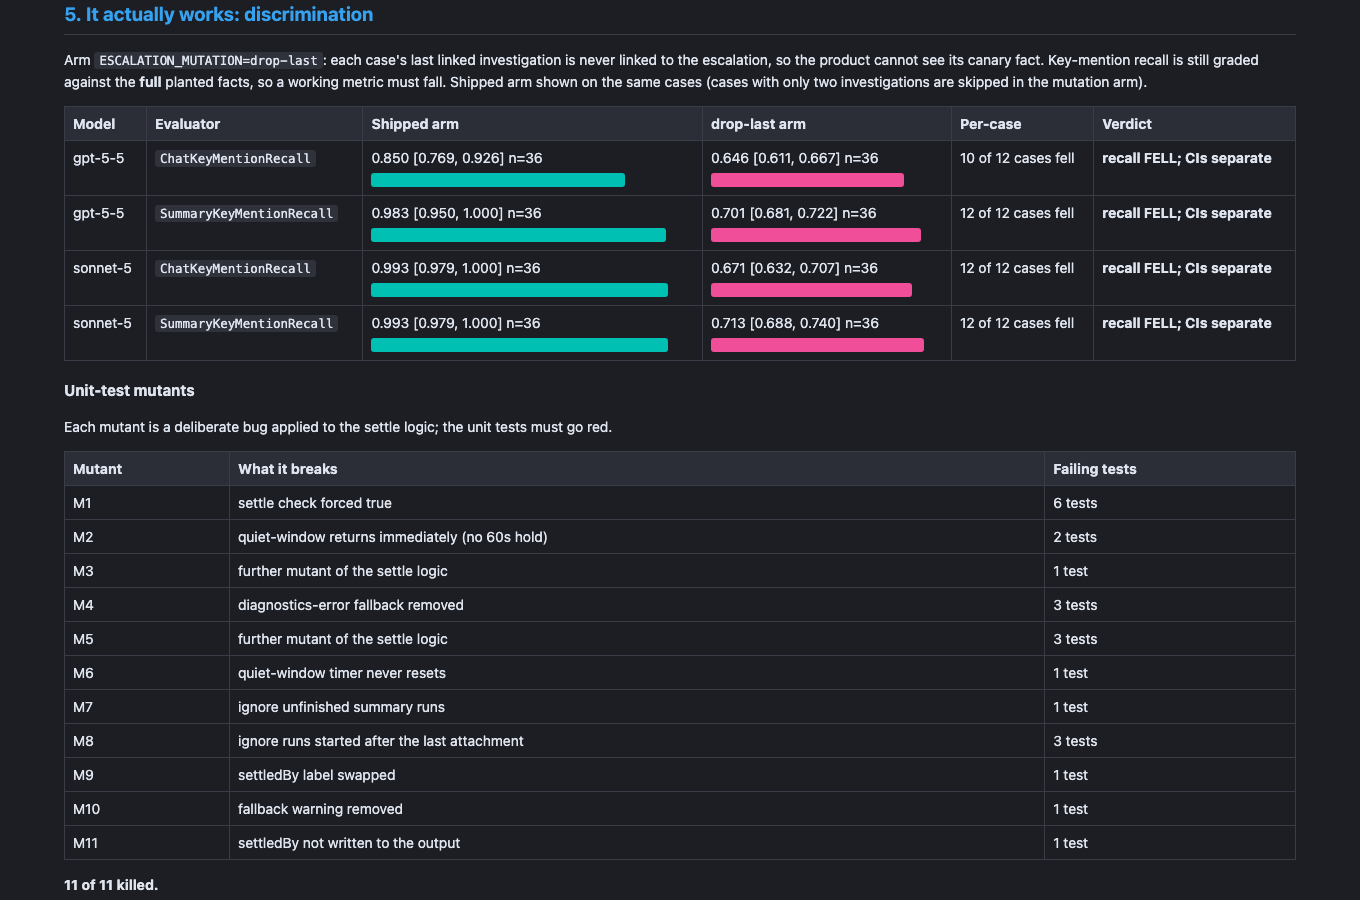
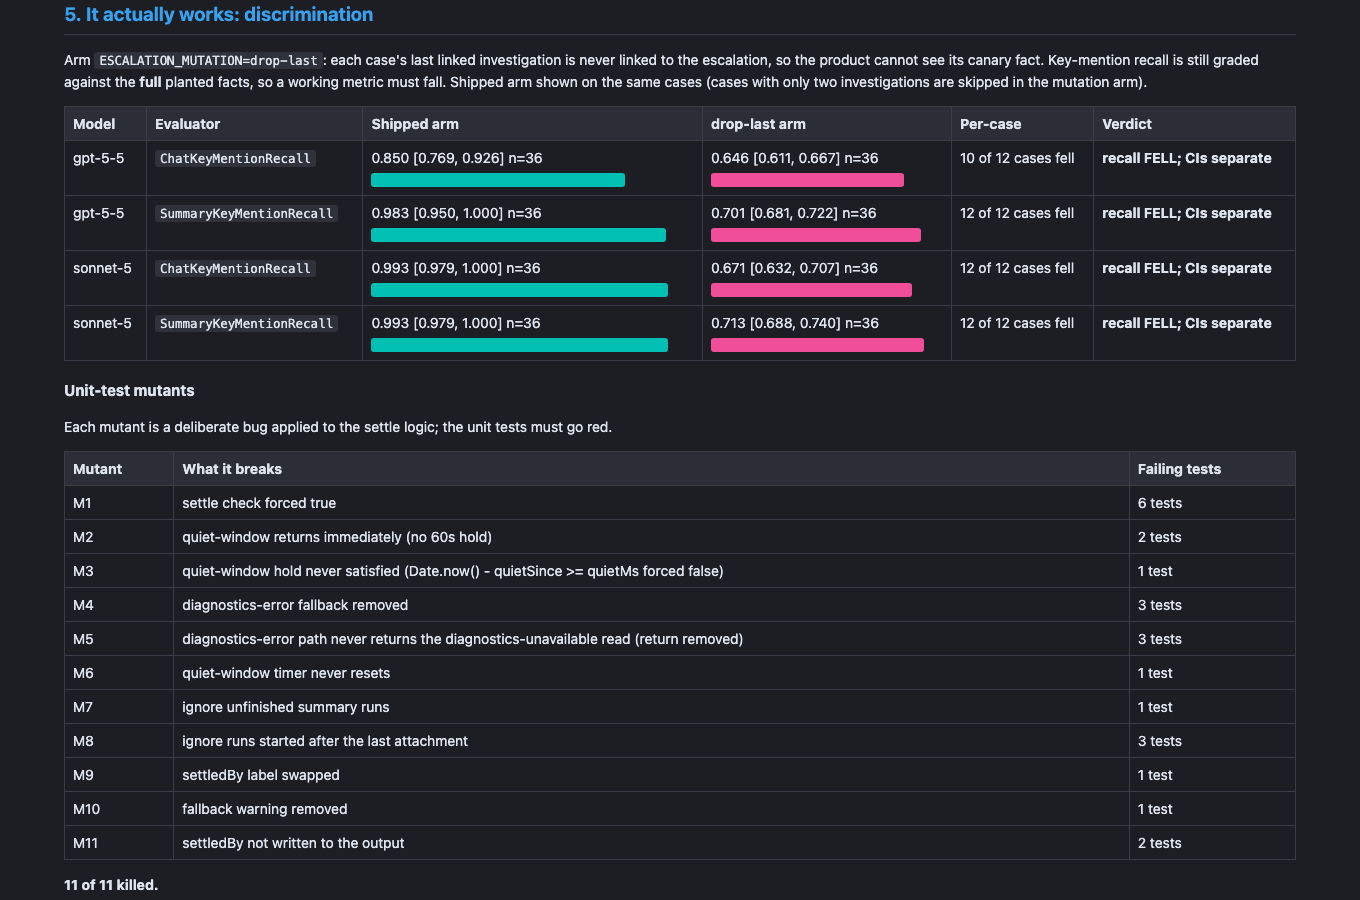
Evidence #296648: summary-path dataset label, real M3/M5 mutant descriptions, M11 2 tests

diff --git a/296648/index.html b/296648/index.html
@@ -108,7 +108,7 @@ It was exfiltrated to:
 
 ```text
 203.0.113.9:/drop/key
-```</div><div class=muted>attribution: model-miss &mdash; answer lacks 4F2A91C7</div></div></div><div class=qa><div><span class='pill l-harness'>harness</span> rep 2 &middot; score 0.750 &middot; see per-question attribution</div><div class=qa><div><b>q1</b> Which pull request was used to modify the deployment workflow?</div><div>expected: <code>PR #4471, merged by svc-ci-bot.</code></div><div>key(s) absent from answer: <code>PR #4471</code>; present in this rep's summary: yes</div><div class=quote>answer: PR **#4471** was used to modify the deployment workflow (`.github/workflows/deploy.yml`).</div><div class=muted>attribution: harness &mdash; the key is present once markdown emphasis is stripped; the grader only matched the raw text</div></div></div></div></details></td><td class=m><details><summary><span class=cell style="background:#3d7a2f">0.92</span> <span class=muted>1/3 rep(s) below best</span></summary><div class=detail-cell><div class=qa><div><span class='pill l-dataset'>dataset</span> rep 1 &middot; score 0.750 &middot; see per-question attribution</div><div class=qa><div><b>q1</b> Which pull request was used to modify the deployment workflow?</div><div>expected: <code>PR #4471, merged by svc-ci-bot.</code></div><div>key(s) absent from answer: <code>PR #4471</code>; present in this rep's summary: no</div><div class=quote>answer: Pull request **#4471** was used to modify the deployment workflow — it was merged by the automated account **svc-ci-bot** and changed `.github/workflows/deploy.yml` on runner **ci-runner-9** to curl and execute a script from `http://203.0.113.9/init.sh`. This was the initial compromise step in the supply-chain attack chain currently tracked in this escalation.</div><div class=muted>attribution: dataset &mdash; answer names #4471; the key PR #4471 is narrower than a correct answer</div></div></div></div></details></td><td class=m><span class=cell style="background:#0b6b4f">1.00</span></td><td class=m><details><summary><span class=cell style="background:#3d7a2f">0.92</span> <span class=muted>1/3 rep(s) below best</span></summary><div class=detail-cell><div class=qa><div><span class='pill l-model-miss'>model-miss</span> rep 1 &middot; score 0.750 &middot; summary settled after the last attachment and still omitted f1</div><div>expected keys: <code>f1=PR #4471, f2=internal-string-utils, f3=edge-gateway-2.14.0.tgz, f4=4F2A91C7</code></div><div>keys found: <code>f2=internal-string-utils, f3=edge-gateway-2.14.0.tgz, f4=4F2A91C7</code></div><ul><li>missed <b>f1</b> key <code>PR #4471</code>: planted in investigation &ldquo;Malicious PR merge on build runner&rdquo;, quoted: <q>PR #4471 merged by user svc-ci-bot modified .github/workflows/deploy.yml on runner ci-runner-9 to curl a script from http://203.0.113.9/init.sh.</q></li></ul><div class=muted>summary read 2026-10-12T02:36:57.794Z; unfinished summary runs at read: 0; runs completed after the last attachment: 2</div><details><summary>summary text as scored</summary><p class=quote>The investigation traces a supply-chain compromise through the CI/CD pipeline. It began when pull request #4471, merged by the automated account svc-ci-bot, modified `.github/workflows/deploy.yml` on runner ci-runner-9 to curl and run a script from http://203.0.113.9/init.sh. Shortly after, a rogue package, internal-string-utils version 99.99.99, appeared in the internal npm registry — published from an external namespace rather than the trusted publisher — with registry logs tracing the upload to API key ci-publish-key-31f2. The compromise then surfaced in build artifacts: build 8842 of edge-gateway-2.14.0.tgz was found to contain a postinstall hook that reaches out to resolve-dns.example at install time. The investigation concluded that the artifact signing key gpg-key-2026-C (id 4F2A91C7) had been exfiltrated from the runner keychain to 198.51.100.99, and that three artifacts were signed with this stolen key after the exfiltration — indicating the attacker used it to make malicious builds appear as trusted, legitimately signed releases.</p></details></div></div></details></td><td class=m><details><summary><span class=cell style="background:#8a6d00">0.84</span> <span class=muted>3/3 rep(s) below best</span></summary><div class=detail-cell><div class=qa><div><span class='pill l-model-miss'>model-miss</span> rep 0 &middot; score 0.875 &middot; the judge could not ground 1 claim(s)</div><div>7 of 8 claims grounded (judge verdict, verbatim below)</div><div class=qa><div>ungrounded claim: <q>The timeline shows a CI/CD supply-chain compromise beginning with PR #4471.</q></div><div class=quote>judge rationale: None</div></div><details><summary>full judge output</summary><pre>✘ The timeline shows a CI/CD supply-chain compromise beginning with PR #4471.
+```</div><div class=muted>attribution: model-miss &mdash; answer lacks 4F2A91C7</div></div></div><div class=qa><div><span class='pill l-harness'>harness</span> rep 2 &middot; score 0.750 &middot; see per-question attribution</div><div class=qa><div><b>q1</b> Which pull request was used to modify the deployment workflow?</div><div>expected: <code>PR #4471, merged by svc-ci-bot.</code></div><div>key(s) absent from answer: <code>PR #4471</code>; present in this rep's summary: yes</div><div class=quote>answer: PR **#4471** was used to modify the deployment workflow (`.github/workflows/deploy.yml`).</div><div class=muted>attribution: harness &mdash; the key is present once markdown emphasis is stripped; the grader only matched the raw text</div></div></div></div></details></td><td class=m><details><summary><span class=cell style="background:#3d7a2f">0.92</span> <span class=muted>1/3 rep(s) below best</span></summary><div class=detail-cell><div class=qa><div><span class='pill l-dataset'>dataset</span> rep 1 &middot; score 0.750 &middot; see per-question attribution</div><div class=qa><div><b>q1</b> Which pull request was used to modify the deployment workflow?</div><div>expected: <code>PR #4471, merged by svc-ci-bot.</code></div><div>key(s) absent from answer: <code>PR #4471</code>; present in this rep's summary: no</div><div class=quote>answer: Pull request **#4471** was used to modify the deployment workflow — it was merged by the automated account **svc-ci-bot** and changed `.github/workflows/deploy.yml` on runner **ci-runner-9** to curl and execute a script from `http://203.0.113.9/init.sh`. This was the initial compromise step in the supply-chain attack chain currently tracked in this escalation.</div><div class=muted>attribution: dataset &mdash; text names #4471; the key PR #4471 is narrower than a correct answer</div></div></div></div></details></td><td class=m><span class=cell style="background:#0b6b4f">1.00</span></td><td class=m><details><summary><span class=cell style="background:#3d7a2f">0.92</span> <span class=muted>1/3 rep(s) below best</span></summary><div class=detail-cell><div class=qa><div><span class='pill l-dataset'>dataset</span> rep 1 &middot; score 0.750 &middot; f1: text names #4471; the key PR #4471 is narrower than a correct answer</div><div>expected keys: <code>f1=PR #4471, f2=internal-string-utils, f3=edge-gateway-2.14.0.tgz, f4=4F2A91C7</code></div><div>keys found: <code>f2=internal-string-utils, f3=edge-gateway-2.14.0.tgz, f4=4F2A91C7</code></div><ul><li>missed <b>f1</b> key <code>PR #4471</code>: planted in investigation &ldquo;Malicious PR merge on build runner&rdquo;, quoted: <q>PR #4471 merged by user svc-ci-bot modified .github/workflows/deploy.yml on runner ci-runner-9 to curl a script from http://203.0.113.9/init.sh.</q></li></ul><div class=muted>summary read 2026-10-12T02:36:57.794Z; unfinished summary runs at read: 0; runs completed after the last attachment: 2</div><details><summary>summary text as scored</summary><p class=quote>The investigation traces a supply-chain compromise through the CI/CD pipeline. It began when pull request #4471, merged by the automated account svc-ci-bot, modified `.github/workflows/deploy.yml` on runner ci-runner-9 to curl and run a script from http://203.0.113.9/init.sh. Shortly after, a rogue package, internal-string-utils version 99.99.99, appeared in the internal npm registry — published from an external namespace rather than the trusted publisher — with registry logs tracing the upload to API key ci-publish-key-31f2. The compromise then surfaced in build artifacts: build 8842 of edge-gateway-2.14.0.tgz was found to contain a postinstall hook that reaches out to resolve-dns.example at install time. The investigation concluded that the artifact signing key gpg-key-2026-C (id 4F2A91C7) had been exfiltrated from the runner keychain to 198.51.100.99, and that three artifacts were signed with this stolen key after the exfiltration — indicating the attacker used it to make malicious builds appear as trusted, legitimately signed releases.</p></details></div></div></details></td><td class=m><details><summary><span class=cell style="background:#8a6d00">0.84</span> <span class=muted>3/3 rep(s) below best</span></summary><div class=detail-cell><div class=qa><div><span class='pill l-model-miss'>model-miss</span> rep 0 &middot; score 0.875 &middot; the judge could not ground 1 claim(s)</div><div>7 of 8 claims grounded (judge verdict, verbatim below)</div><div class=qa><div>ungrounded claim: <q>The timeline shows a CI/CD supply-chain compromise beginning with PR #4471.</q></div><div class=quote>judge rationale: None</div></div><details><summary>full judge output</summary><pre>✘ The timeline shows a CI/CD supply-chain compromise beginning with PR #4471.
 ✔ PR #4471 was merged by svc-ci-bot.
 ✔ PR #4471 changed .github/workflows/deploy.yml on ci-runner-9 to curl a script from http://203.0.113.9/init.sh.
 ✔ An untrusted internal-string-utils version 99.99.99 appeared in the internal npm registry.
@@ -380,8 +380,8 @@ The receiving account was drained within **20 minutes** after the wire was appro
 ✘ The RMM session created the IntelSync scheduled task to load the DLL hourly as SYSTEM.
 ✔ The final investigation found the same relay on six other laptops.
 ✔ FIN-LT-02 was the first of the other laptops observed.</pre></details></div></div></details></td><td class=m><span class=cell style="background:#0b6b4f">1.00</span></td></tr></table></div>
-<h2>4. Every score below best explains itself</h2><ul><li><span class='pill l-model-miss'>model-miss</span> The model under test produced the wrong or incomplete output while the harness delivered the right inputs.</li><li><span class='pill l-harness'>harness</span> The scorer or test plumbing rejected or lost a correct output.</li><li><span class='pill l-dataset'>dataset</span> The expected key is narrower than a correct answer; the fixture, not the model, is strict.</li><li><span class='pill l-unverified'>unverified</span> The measurement itself is not trusted (e.g. summary read before the workflow settled).</li><li><span class='pill l-unknown'>unknown</span> The cause is not established from the recorded data.</li></ul><table><tr><th>Model</th><th><span class='pill l-model-miss'>model-miss</span></th><th><span class='pill l-harness'>harness</span></th><th><span class='pill l-dataset'>dataset</span></th><th><span class='pill l-unverified'>unverified</span></th><th><span class='pill l-unknown'>unknown</span></th><th>scores below best</th></tr><tr><td>gpt-5-5</td><td>22</td><td>1</td><td>0</td><td>0</td><td>1</td><td><b>24</b></td></tr><tr><td>sonnet-5</td><td>31</td><td>4</td><td>1</td><td>0</td><td>0</td><td><b>36</b></td></tr></table><p><b>unknown: 1</b> of 60 scores below best (gpt-5-5, sonnet-5 run validity: attempt-1 valid). Unknown is reported, not hidden.</p><p class=muted>ClaimGrounding is an LLM judge (gemini-3-1-pro). Many of its misses flag inferential connective claims (purpose, intent, causal order) that the investigations do not state outright; they are model-miss by the judge rule and are not relabelled.</p><p class=muted>Mutation arm: the gpt-5-5 cell needed one harness retry (attempt 1 hit the 10-minute no-summary timeout; attempt 2 completed all 12 cases). Scores shown are from the completed execution.</p><p class=muted>A gpt-5-5 chat round (case-07, rep 1) returned HTTP 400 from the chat API; it is labelled unknown, not model-miss and not harness.</p><p class=muted>Earlier-baseline runs predate the summary-settle fix: the gpt-5-5 gain on SummaryKeyMentionRecall mixes that measurement fix with model behaviour.</p>
-<h2>5. It actually works: discrimination</h2><p>Arm <code>ESCALATION_MUTATION=drop-last</code>: each case's last linked investigation is never linked to the escalation, so the product cannot see its canary fact. Key-mention recall is still graded against the <b>full</b> planted facts, so a working metric must fall. Shipped arm shown on the same cases (cases with only two investigations are skipped in the mutation arm).</p><table><tr><th>Model</th><th>Evaluator</th><th>Shipped arm</th><th>drop-last arm</th><th>Per-case</th><th>Verdict</th></tr><tr><td>gpt-5-5</td><td><code>ChatKeyMentionRecall</code></td><td>0.850 [0.769, 0.926] n=36<br><span class=bar style='background:#00bfb3;width:254px'></span></td><td>0.646 [0.611, 0.667] n=36<br><span class=bar style='background:#f04e98;width:193px'></span></td><td>10 of 12 cases fell</td><td><b>recall FELL; CIs separate</b></td></tr><tr><td>gpt-5-5</td><td><code>SummaryKeyMentionRecall</code></td><td>0.983 [0.950, 1.000] n=36<br><span class=bar style='background:#00bfb3;width:295px'></span></td><td>0.701 [0.681, 0.722] n=36<br><span class=bar style='background:#f04e98;width:210px'></span></td><td>12 of 12 cases fell</td><td><b>recall FELL; CIs separate</b></td></tr><tr><td>sonnet-5</td><td><code>ChatKeyMentionRecall</code></td><td>0.993 [0.979, 1.000] n=36<br><span class=bar style='background:#00bfb3;width:297px'></span></td><td>0.671 [0.632, 0.707] n=36<br><span class=bar style='background:#f04e98;width:201px'></span></td><td>12 of 12 cases fell</td><td><b>recall FELL; CIs separate</b></td></tr><tr><td>sonnet-5</td><td><code>SummaryKeyMentionRecall</code></td><td>0.993 [0.979, 1.000] n=36<br><span class=bar style='background:#00bfb3;width:297px'></span></td><td>0.713 [0.688, 0.740] n=36<br><span class=bar style='background:#f04e98;width:213px'></span></td><td>12 of 12 cases fell</td><td><b>recall FELL; CIs separate</b></td></tr></table><h3>Unit-test mutants</h3><p>Each mutant is a deliberate bug applied to the settle logic; the unit tests must go red.</p><table><tr><th>Mutant</th><th>What it breaks</th><th>Failing tests</th></tr><tr><td>M1</td><td>settle check forced true</td><td>6 tests</td></tr><tr><td>M2</td><td>quiet-window returns immediately (no 60s hold)</td><td>2 tests</td></tr><tr><td>M3</td><td>further mutant of the settle logic</td><td>1 test</td></tr><tr><td>M4</td><td>diagnostics-error fallback removed</td><td>3 tests</td></tr><tr><td>M5</td><td>further mutant of the settle logic</td><td>3 tests</td></tr><tr><td>M6</td><td>quiet-window timer never resets</td><td>1 test</td></tr><tr><td>M7</td><td>ignore unfinished summary runs</td><td>1 test</td></tr><tr><td>M8</td><td>ignore runs started after the last attachment</td><td>3 tests</td></tr><tr><td>M9</td><td>settledBy label swapped</td><td>1 test</td></tr><tr><td>M10</td><td>fallback warning removed</td><td>1 test</td></tr><tr><td>M11</td><td>settledBy not written to the output</td><td>1 test</td></tr></table><p><b>11 of 11 killed.</b></p>
+<h2>4. Every score below best explains itself</h2><ul><li><span class='pill l-model-miss'>model-miss</span> The model under test produced the wrong or incomplete output while the harness delivered the right inputs.</li><li><span class='pill l-harness'>harness</span> The scorer or test plumbing rejected or lost a correct output.</li><li><span class='pill l-dataset'>dataset</span> The expected key is narrower than a correct answer; the fixture, not the model, is strict.</li><li><span class='pill l-unverified'>unverified</span> The measurement itself is not trusted (e.g. summary read before the workflow settled).</li><li><span class='pill l-unknown'>unknown</span> The cause is not established from the recorded data.</li></ul><table><tr><th>Model</th><th><span class='pill l-model-miss'>model-miss</span></th><th><span class='pill l-harness'>harness</span></th><th><span class='pill l-dataset'>dataset</span></th><th><span class='pill l-unverified'>unverified</span></th><th><span class='pill l-unknown'>unknown</span></th><th>scores below best</th></tr><tr><td>gpt-5-5</td><td>22</td><td>1</td><td>0</td><td>0</td><td>1</td><td><b>24</b></td></tr><tr><td>sonnet-5</td><td>30</td><td>4</td><td>2</td><td>0</td><td>0</td><td><b>36</b></td></tr></table><p><b>unknown: 1</b> of 60 scores below best (gpt-5-5, sonnet-5 run validity: attempt-1 valid). Unknown is reported, not hidden.</p><p class=muted>ClaimGrounding is an LLM judge (gemini-3-1-pro). Many of its misses flag inferential connective claims (purpose, intent, causal order) that the investigations do not state outright; they are model-miss by the judge rule and are not relabelled.</p><p class=muted>Mutation arm: the gpt-5-5 cell needed one harness retry (attempt 1 hit the 10-minute no-summary timeout; attempt 2 completed all 12 cases). Scores shown are from the completed execution.</p><p class=muted>A gpt-5-5 chat round (case-07, rep 1) returned HTTP 400 from the chat API; it is labelled unknown, not model-miss and not harness.</p><p class=muted>Earlier-baseline runs predate the summary-settle fix: the gpt-5-5 gain on SummaryKeyMentionRecall mixes that measurement fix with model behaviour.</p>
+<h2>5. It actually works: discrimination</h2><p>Arm <code>ESCALATION_MUTATION=drop-last</code>: each case's last linked investigation is never linked to the escalation, so the product cannot see its canary fact. Key-mention recall is still graded against the <b>full</b> planted facts, so a working metric must fall. Shipped arm shown on the same cases (cases with only two investigations are skipped in the mutation arm).</p><table><tr><th>Model</th><th>Evaluator</th><th>Shipped arm</th><th>drop-last arm</th><th>Per-case</th><th>Verdict</th></tr><tr><td>gpt-5-5</td><td><code>ChatKeyMentionRecall</code></td><td>0.850 [0.769, 0.926] n=36<br><span class=bar style='background:#00bfb3;width:254px'></span></td><td>0.646 [0.611, 0.667] n=36<br><span class=bar style='background:#f04e98;width:193px'></span></td><td>10 of 12 cases fell</td><td><b>recall FELL; CIs separate</b></td></tr><tr><td>gpt-5-5</td><td><code>SummaryKeyMentionRecall</code></td><td>0.983 [0.950, 1.000] n=36<br><span class=bar style='background:#00bfb3;width:295px'></span></td><td>0.701 [0.681, 0.722] n=36<br><span class=bar style='background:#f04e98;width:210px'></span></td><td>12 of 12 cases fell</td><td><b>recall FELL; CIs separate</b></td></tr><tr><td>sonnet-5</td><td><code>ChatKeyMentionRecall</code></td><td>0.993 [0.979, 1.000] n=36<br><span class=bar style='background:#00bfb3;width:297px'></span></td><td>0.671 [0.632, 0.707] n=36<br><span class=bar style='background:#f04e98;width:201px'></span></td><td>12 of 12 cases fell</td><td><b>recall FELL; CIs separate</b></td></tr><tr><td>sonnet-5</td><td><code>SummaryKeyMentionRecall</code></td><td>0.993 [0.979, 1.000] n=36<br><span class=bar style='background:#00bfb3;width:297px'></span></td><td>0.713 [0.688, 0.740] n=36<br><span class=bar style='background:#f04e98;width:213px'></span></td><td>12 of 12 cases fell</td><td><b>recall FELL; CIs separate</b></td></tr></table><h3>Unit-test mutants</h3><p>Each mutant is a deliberate bug applied to the settle logic; the unit tests must go red.</p><table><tr><th>Mutant</th><th>What it breaks</th><th>Failing tests</th></tr><tr><td>M1</td><td>settle check forced true</td><td>6 tests</td></tr><tr><td>M2</td><td>quiet-window returns immediately (no 60s hold)</td><td>2 tests</td></tr><tr><td>M3</td><td>quiet-window hold never satisfied (Date.now() - quietSince &gt;= quietMs forced false)</td><td>1 test</td></tr><tr><td>M4</td><td>diagnostics-error fallback removed</td><td>3 tests</td></tr><tr><td>M5</td><td>diagnostics-error path never returns the diagnostics-unavailable read (return removed)</td><td>3 tests</td></tr><tr><td>M6</td><td>quiet-window timer never resets</td><td>1 test</td></tr><tr><td>M7</td><td>ignore unfinished summary runs</td><td>1 test</td></tr><tr><td>M8</td><td>ignore runs started after the last attachment</td><td>3 tests</td></tr><tr><td>M9</td><td>settledBy label swapped</td><td>1 test</td></tr><tr><td>M10</td><td>fallback warning removed</td><td>1 test</td></tr><tr><td>M11</td><td>settledBy not written to the output</td><td>2 tests</td></tr></table><p><b>11 of 11 killed.</b></p>
 <h2>6. Stats</h2><p class=muted>95% CI by cluster bootstrap over cases (10,000 resamples); repetitions of one case are not treated as independent. Where CIs overlap no difference is claimed.</p><table><tr><th>Evaluator</th><th>gpt-5-5 mean [95% CI]</th><th>sonnet-5 mean [95% CI]</th><th>Between models</th><th>Earlier baseline (before the summary-settle fix)</th></tr><tr><td><code>UnsupportedNumericSpecifics</code></td><td>0.000 <span class=muted>[0.000, 0.000] n=48 (16 cases)</span></td><td>0.083 <span class=muted>[0.000, 0.229] n=48 (16 cases)</span></td><td>CIs overlap: no difference claimed</td><td class=muted>gpt-5-5: 0.042 [0.000, 0.104] n=48 (overlaps current)<br>sonnet-5: 0.104 [0.000, 0.250] n=48 (overlaps current)</td></tr><tr><td><code>ChatKeyMentionRecall</code></td><td>0.887 <span class=muted>[0.816, 0.951] n=48 (16 cases)</span></td><td>0.995 <span class=muted>[0.984, 1.000] n=48 (16 cases)</span></td><td>CIs separate</td><td class=muted>gpt-5-5: 0.968 [0.937, 0.996] n=48 (overlaps current)<br>sonnet-5: 0.995 [0.984, 1.000] n=48 (overlaps current)</td></tr><tr><td><code>SummaryKeyMentionRecall</code></td><td>0.988 <span class=muted>[0.962, 1.000] n=48 (16 cases)</span></td><td>0.995 <span class=muted>[0.984, 1.000] n=48 (16 cases)</span></td><td>CIs overlap: no difference claimed</td><td class=muted>gpt-5-5: 0.763 [0.675, 0.847] n=48 (separates from current)<br>sonnet-5: 0.955 [0.906, 0.993] n=48 (overlaps current)</td></tr><tr><td><code>ClaimGrounding</code></td><td>0.981 <span class=muted>[0.957, 1.000] n=48 (16 cases)</span></td><td>0.849 <span class=muted>[0.785, 0.909] n=48 (16 cases)</span></td><td>CIs separate</td><td class=muted>gpt-5-5: 0.945 [0.909, 0.977] n=48 (overlaps current)<br>sonnet-5: 0.838 [0.784, 0.887] n=48 (overlaps current)</td></tr></table>
 <h2>Representative case, recorded</h2><p class=muted>Text recorded from the evaluated run (gpt-5-5, rep 0). No UI screenshots: no UI test covers these screens yet, so none are shown rather than staged.</p><h3>case-16-rogue-rmm &mdash; linked investigations</h3><div class=card><b>Investigation 1: RMM client installed</b><div class=quote>ScreenConnect client installed on HR-LT-19 from an email link; relay host relay-sc.example-rmm.net.</div></div><div class=card><b>Investigation 2: Payload download</b><div class=quote>The RMM session ran certutil -urlcache to fetch beacon.dll into C:\ProgramData\Intel.</div></div><div class=card><b>Investigation 3: Persistence</b><div class=quote>Scheduled task IntelSync was created on HR-LT-19 to load the DLL hourly as SYSTEM.</div></div><div class=card><b>Investigation 4 (last): Spread to other laptops</b><div class=quote>Final investigation: the same relay was seen on 6 other laptops, the first being FIN-LT-02.</div></div><h3>Generated escalation summary (canary fact highlighted)</h3><div class=card><div class=quote>The investigation timeline shows ScreenConnect was installed on HR-LT-19 from an email link using the relay host relay-sc.example-rmm.net. The RMM session used certutil -urlcache to fetch beacon.dll into C:\ProgramData\Intel, then created the IntelSync scheduled task to load the DLL hourly as SYSTEM. The final investigation note states the same relay was seen on six other laptops, with <mark style='background:#fec514;color:#000'>FIN-LT-02</mark> being the first.</div></div><h3>Escalation-context chat</h3><div class=qa><div><b>q1</b> Which relay host did the RMM client connect to?</div><div class=quote>I’ll use the relevant investigation context already captured for this escalation to answer the relay host question.
 
